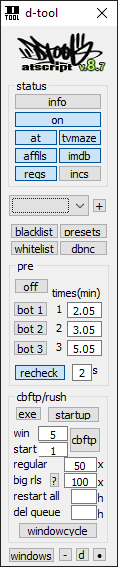
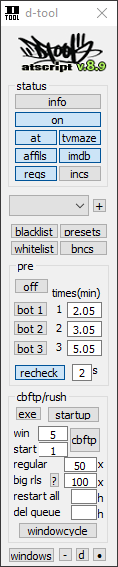
v8.9.4

diff --git a/Commands.html b/Commands.html
@@ -150,19 +150,20 @@ mit Precheck oder als  Simulation (bei Simulation wird nichts zum FTP Clienten g
 zB. Sitenchan, dann wird  angezeigt was man auf einer bestimmten Site angestellt hat<br />
         _____________________________________________________________<br />
         <br>
-        <strong>/dcb &lt;site/all&gt; &lt;command&gt; </strong>- RawCmd:cbftp<br />
-        <strong>/dcbs</strong> <strong>&lt;site/all&gt; &lt;item&gt;</strong> - Search:cbftp<br />
+        <strong>/dcb &lt;site/all&gt; &lt;command&gt; </strong>- RawCmd(cbftp)<br />
+        <strong>/dcbs</strong> <strong>&lt;site/all&gt; &lt;item&gt;</strong> - Search(cbftp)<br />
         Man kann das &quot;alle&quot; weglassen, sofern nach einem Releasenamen gesucht wird.<br />
         Wenn man nach einzelnen Wörtern suchen möchte, muss man immer &quot;all&quot; angeben um auf allen Sites zu suchen.<br />
         <strong>/dcbsync  &lt;site&gt; &lt;s/t&gt; &lt;site1&gt; &lt;site2&gt;</strong> - synct Sources/Targets mit cbftp      <br />
-        <strong>/dcbsite &lt;site&gt;</strong> - Siteinfo:cbftp        (zeigt source und target sites)<br />
-        <strong>/dcbjobs</strong> - Active.Races:cbftp<br />
+        <strong>/dcbsite &lt;site&gt;</strong> - Siteinfo (cbftp - zeigt source und target sites)<br />
+        <strong>/dcbjobs</strong> - Aktive Races(cbftp)<br />
+        <strong>/dcbinfo</strong> - cbftp Infos (cbftp)        <br />
         _____________________________________________________________<br />
         <br />
         <strong>/dse &lt;sitename&gt; &lt;suchwörter&gt;</strong> - Search:Rush<br />
-        <strong>/dsa &lt;suchwörter&gt;</strong> - Search:All:Rush<br />
-        <strong>/dtc &lt;site&gt; &lt;command&gt;</strong> - RawCmd:Rush<br />
-        <strong>/dtca &lt;command&gt; </strong>- RawCmd:All:Rush<br />
+        <strong>/dsa &lt;suchwörter&gt;</strong> - Search:All(rush)<br />
+        <strong>/dtc &lt;site&gt; &lt;command&gt;</strong> - RawCmd(rush)<br />
+        <strong>/dtca &lt;command&gt; </strong>- RawCmd:All(rush)<br />
         <strong>/dtrinfo </strong> - Infofunktion vom Server abrufen, falls d-tool noch auf einem Server läuft<br />
         <strong>/dtrp </strong>- Private Rushstats<br />
         <strong>/dtrc </strong>- Rushstats im Channel posten <br />
@@ -200,7 +201,7 @@ zB. Sitenchan, dann wird  angezeigt was man auf einer bestimmten Site angestellt
 </p></td>
     <td width="486" valign="top" align="left"><p>&nbsp;</p>
       <p>&nbsp;</p>
-      <p><img src="Commands-Dateien/menu-commands.png" width="434" height="1052"></p>
+      <p><img src="Commands-Dateien/menu-commands.png" width="434" height="1123"></p>
     <p>Kontextmenü &gt; d-tool &gt; Commands</p></td>
   </tr>
   <tr>

diff --git a/BNCLauncher.html b/BNCLauncher.html
@@ -138,7 +138,7 @@ body {
         startup=1<br />
         <br />
         Die Reihenfolge, in der diese Einträge in der ini stehen, legt fest wie sie im Pulldownmenu stehen. Damit eine manuelle Änderung in der Liste
-übernommen wird, muss man das Menü nach Änderung einmal schließen und wieder öfnen. Dann aktualisiert sich die Auflistung der BNCs am Ende der Datei bzw. im Pulldownmenü.<br />
+übernommen wird, muss man das Menü nach Änderung einmal schließen und wieder öffnen. Dann aktualisiert sich die Auflistung der BNCs am Ende der Datei bzw. im Pulldownmenü.<br />
 Die Auflistung aller BNCs am Ende in der ini selber zu ändern ist sinnlos, falls jemand auf die Idee kommt.<br />
 <br />
 Diese Vorgehensweise ist übrigens auch in der d-tool.ini angesagt wenn man die Reihenfolge der Sites selber ändern möchte.

diff --git a/index.html b/index.html
@@ -143,7 +143,7 @@ body {
       <span class="KleinerText"><a href="https://d--tool-github-io.translate.goog/index.html?_x_tr_sl=de&amp;_x_tr_tl=en&amp;_x_tr_hl=de&amp;_x_tr_pto=wapp" class="helpdesk1"><span class="link-nodecoration-grey-10px"><br />
         <br />
         translate me</span></a></span></p></td>
-    <td width="228" valign="top"><p class="mini_text"><a href="Latest.html" class="link-normal">dt.v.8.9.1</a><br />
+    <td width="228" valign="top"><p class="mini_text"><a href="Latest.html" class="link-normal">dt.v.8.9.4</a><br />
         <br />
         <br />
       </p></td>
